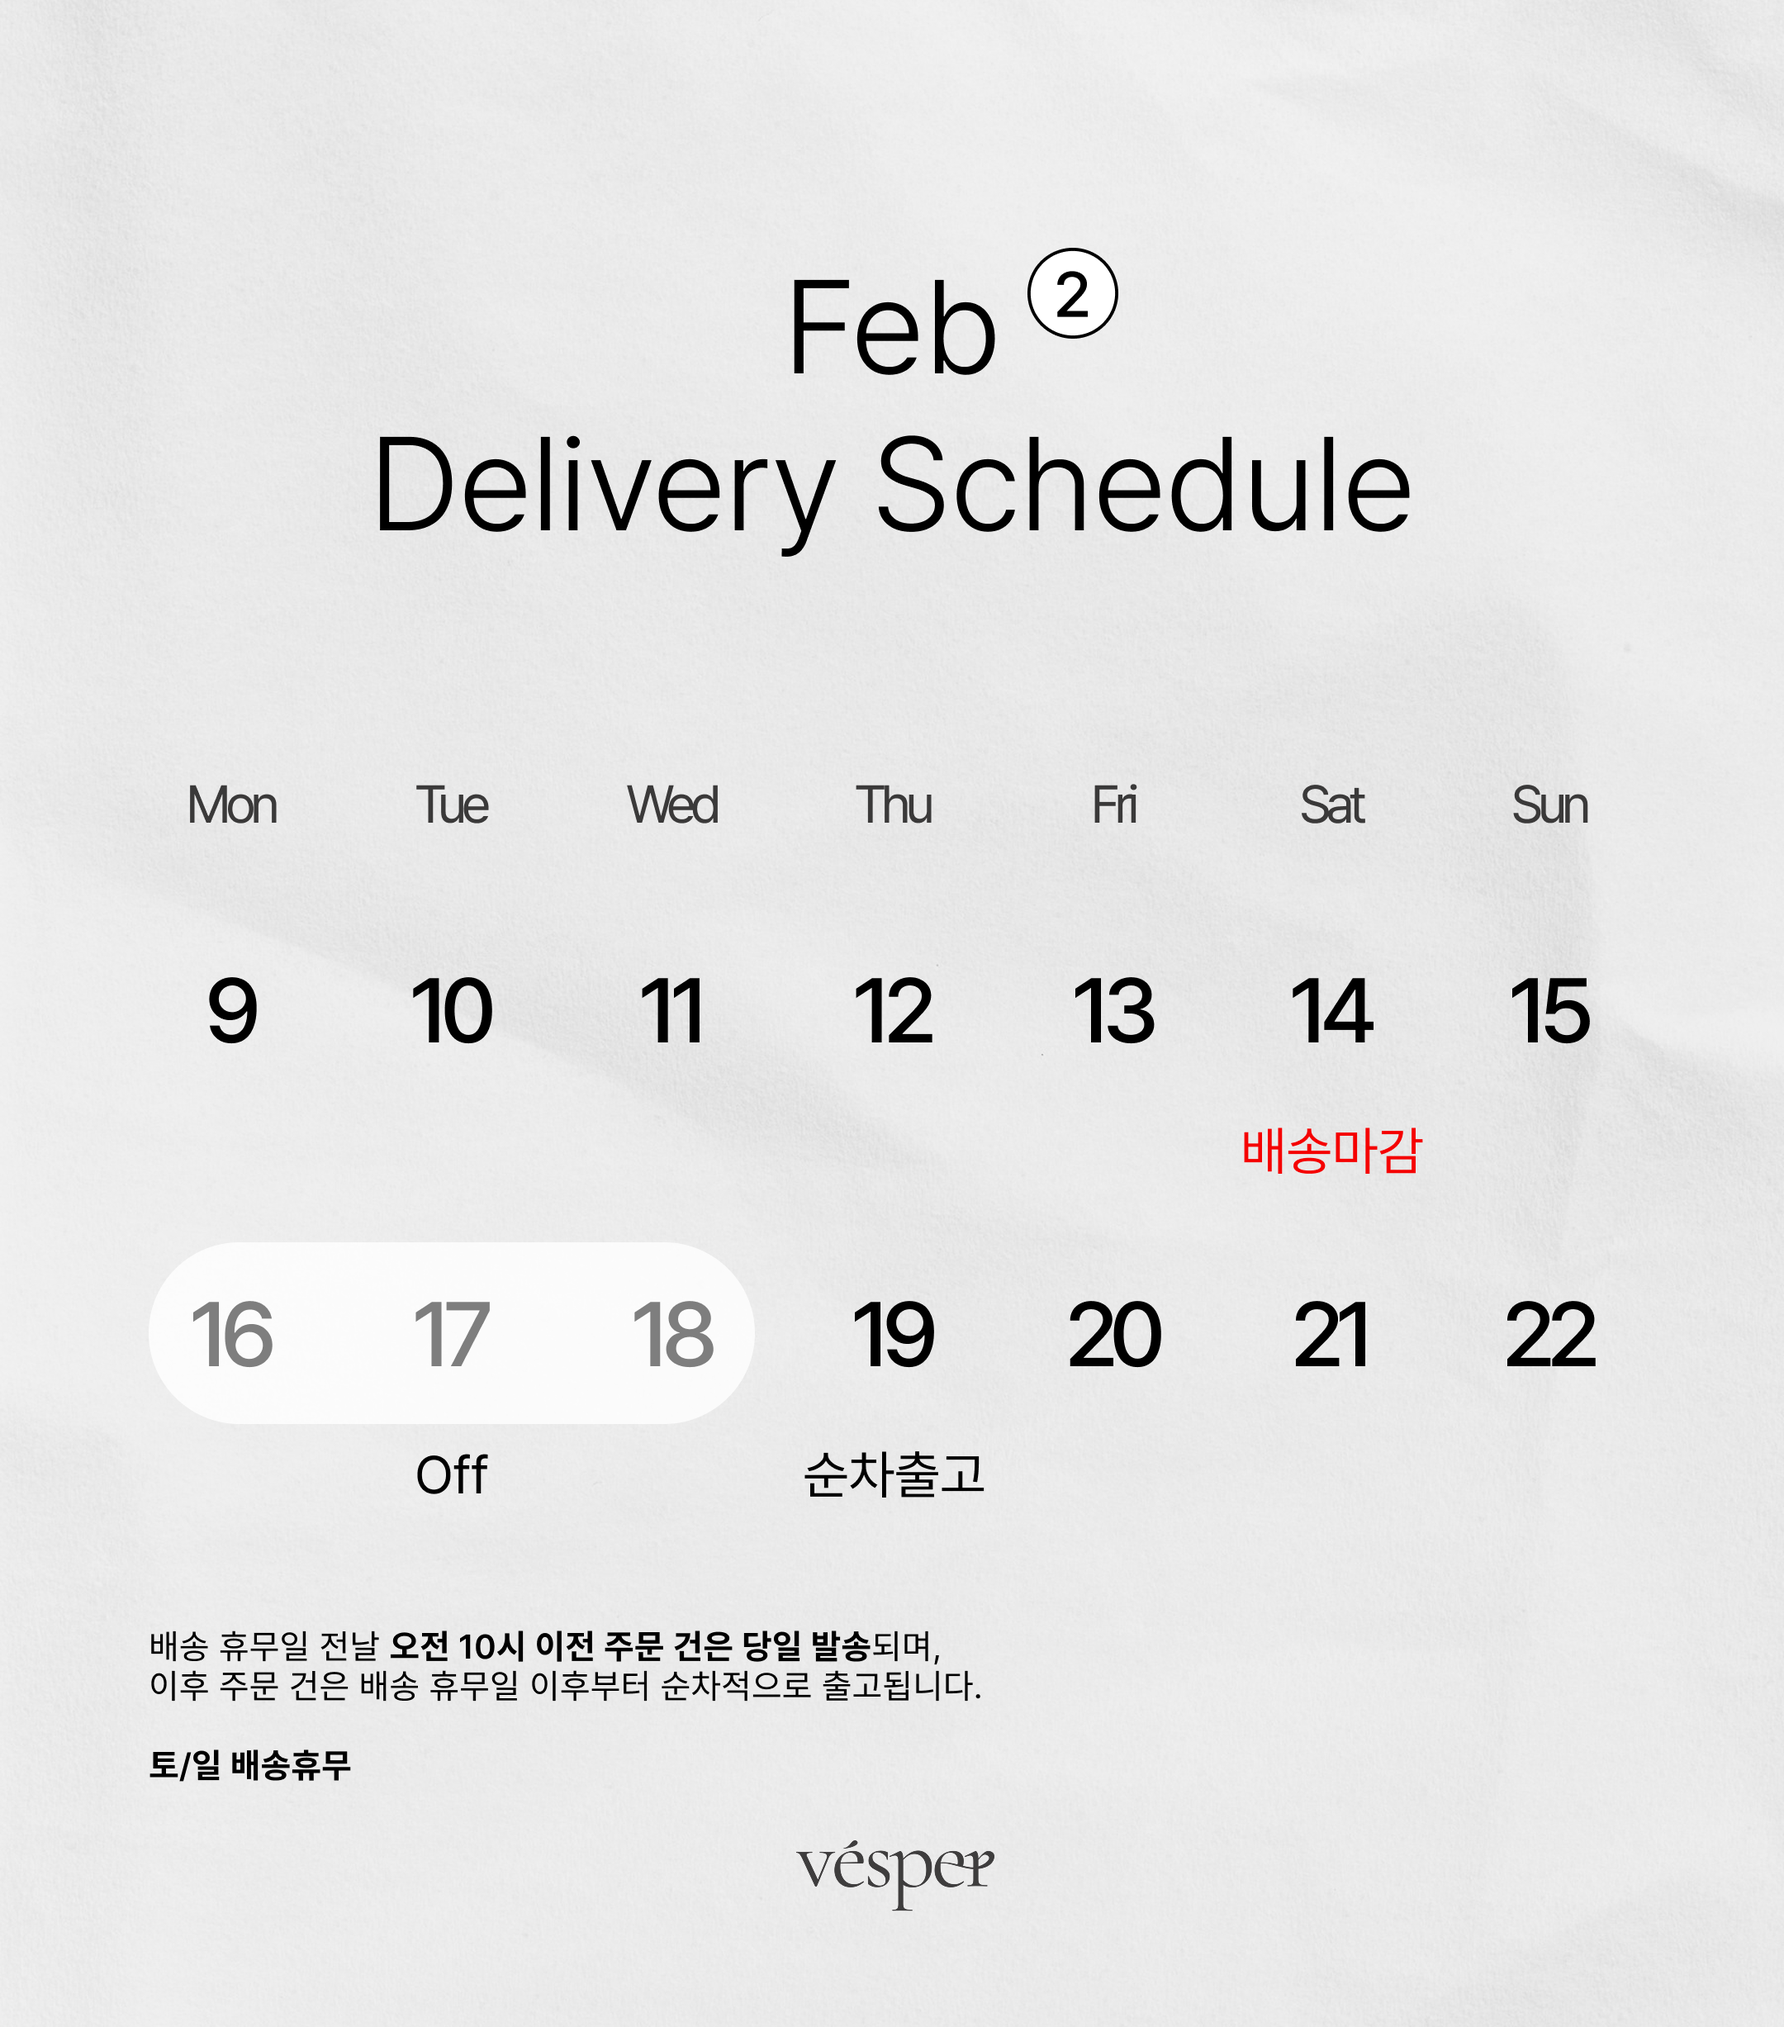
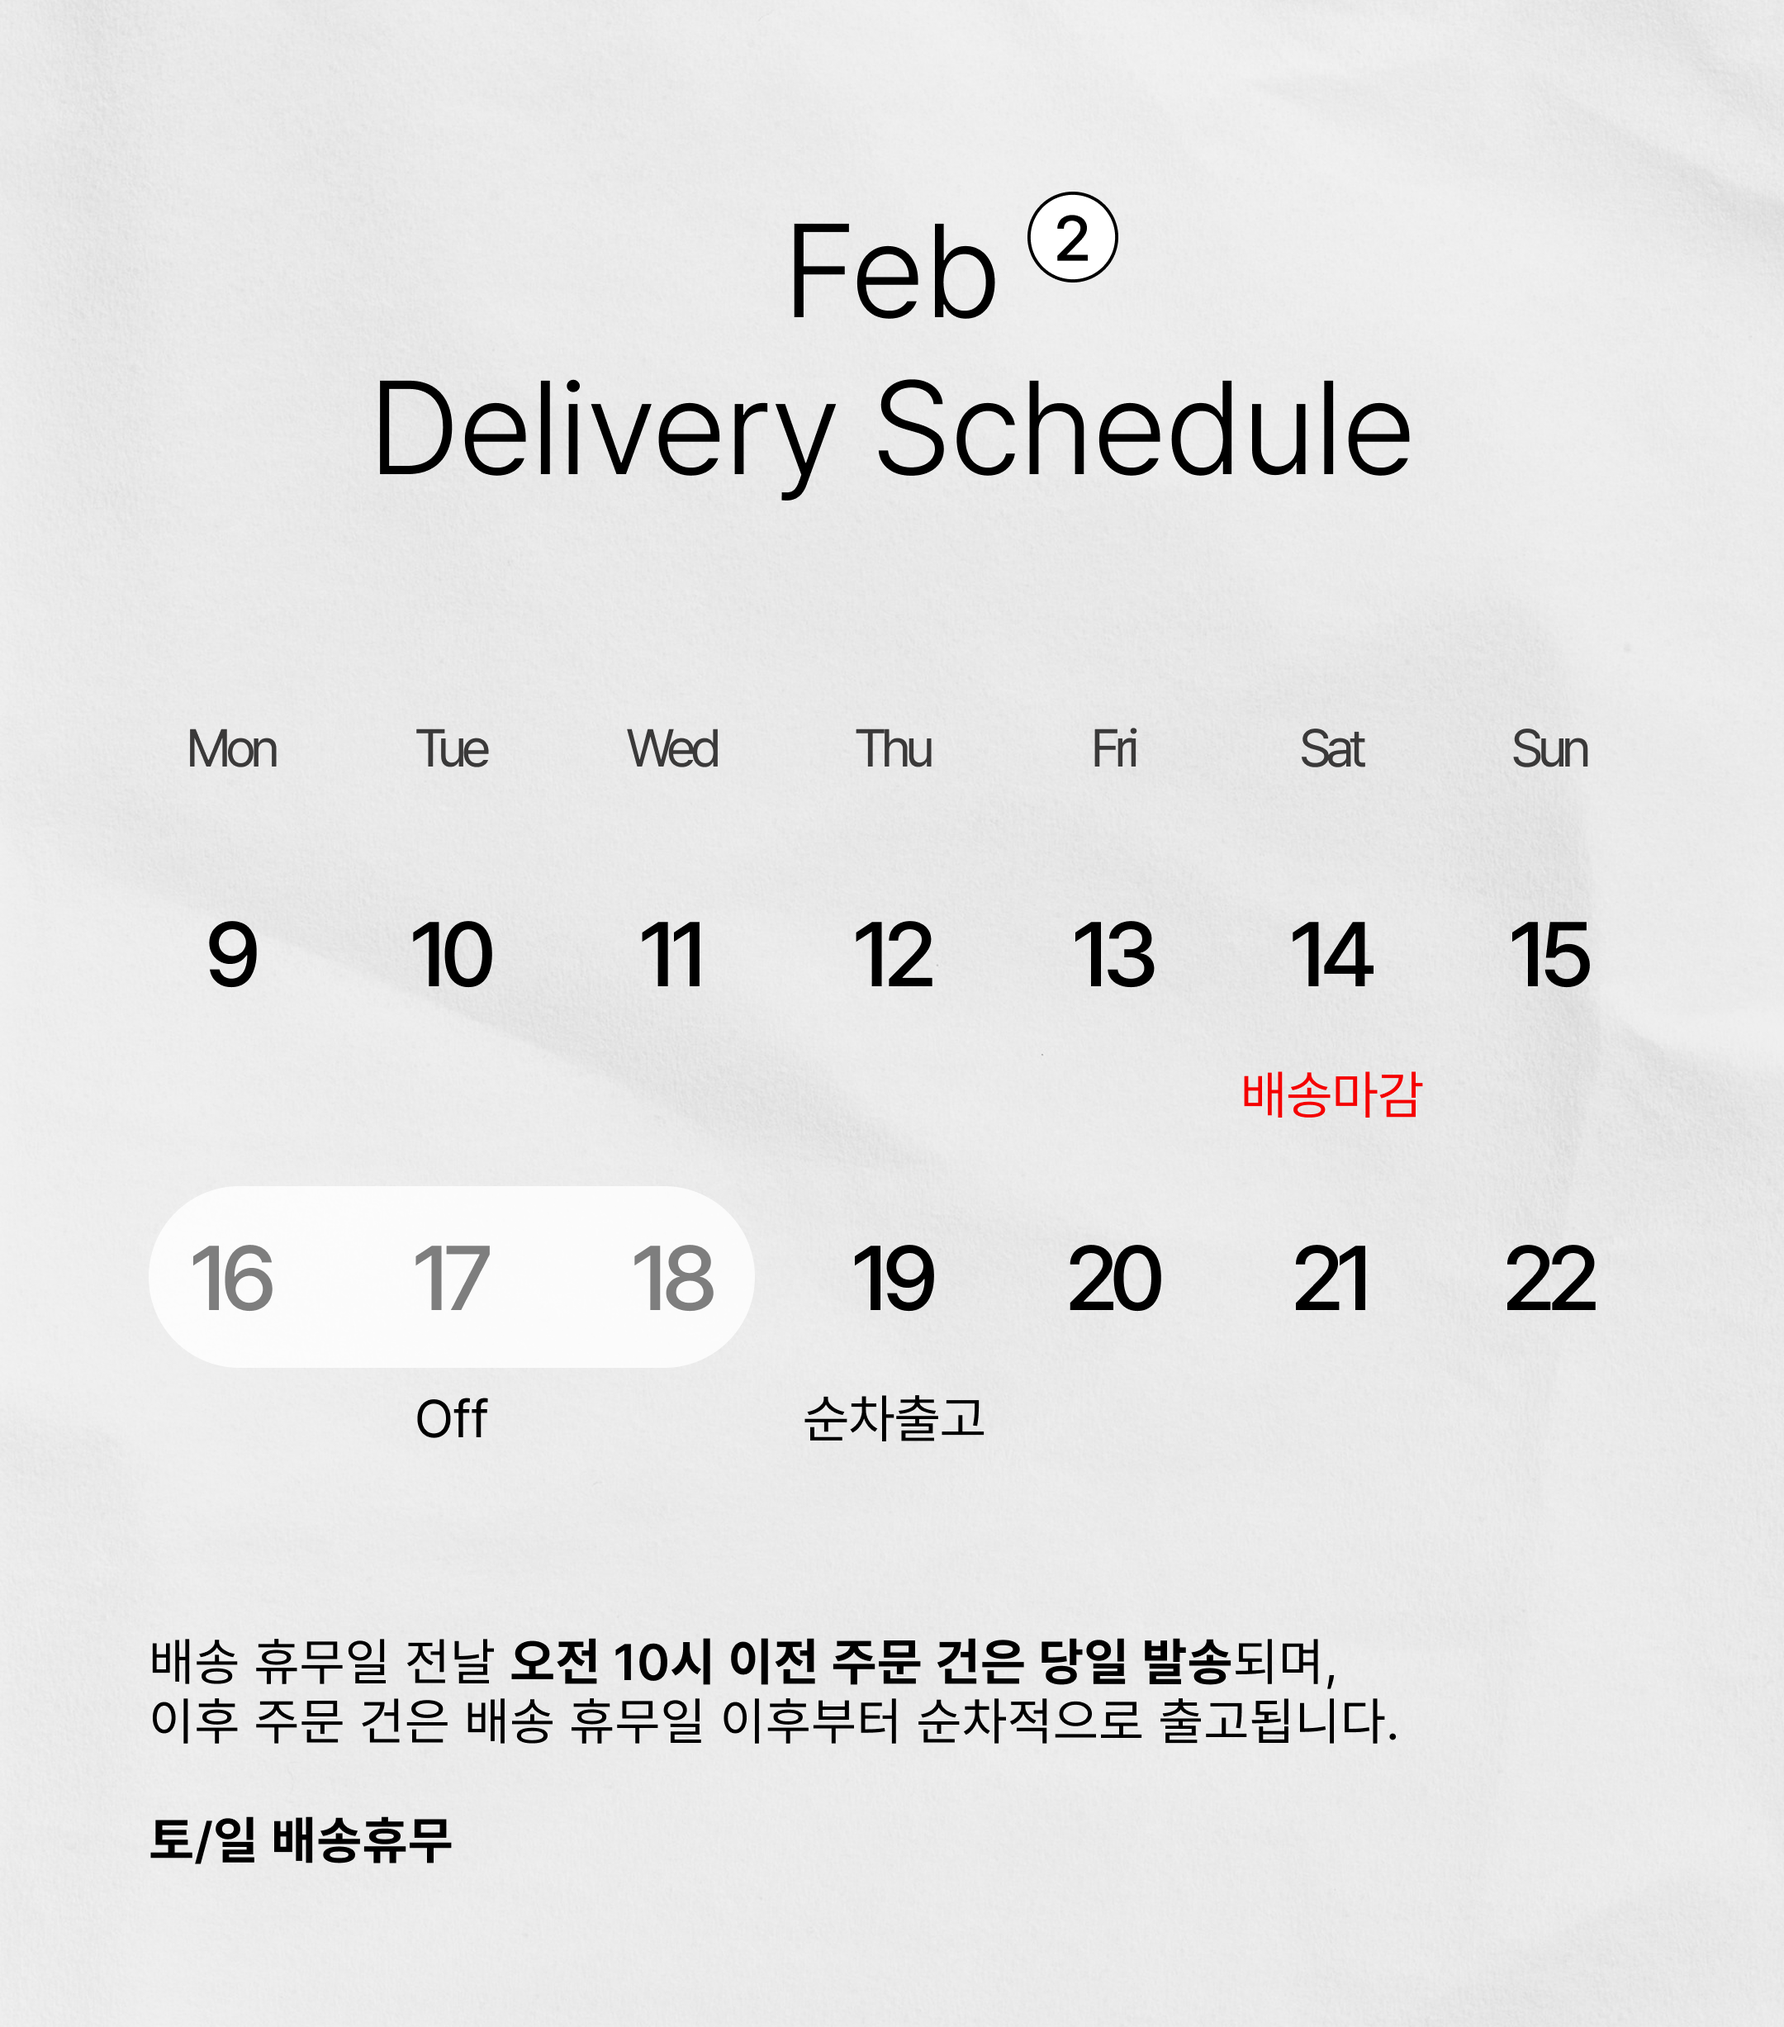
공지이미지 변경

diff --git a/modal.html b/modal.html
@@ -14,7 +14,7 @@
         text-decoration: none;
       }
       .ves_modal {
-        width: 500px;
+        width: 700px;
         max-width: 92vw;
         box-shadow: 0 0 30px 10px rgba(0, 0, 0, 0.2);
         border-radius: 16px;
@@ -67,7 +67,7 @@
     <div class="ves_modal" id="vesmodal">
       <div class="ves_modal_contents">
         <img
-          src="https://github.com/miyaajd/vesper/blob/main/images/202602-delivery.png?raw=true"
+          src="https://github.com/miyaajd/vesper/blob/main/images/202602-delivery-2.png?raw=true"
           alt="modal"
         />
         <!-- <a href="https://vesper.imweb.me/shop">VIEW MORE ></a> -->
